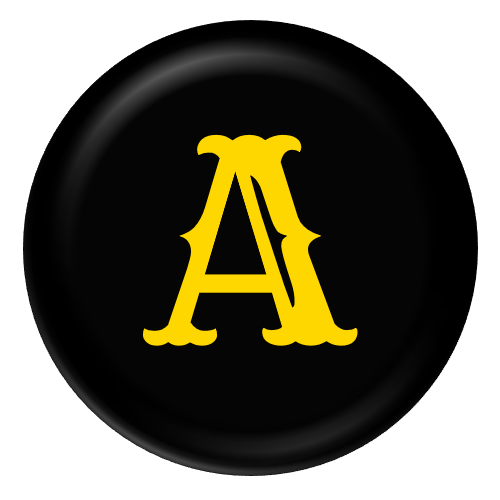
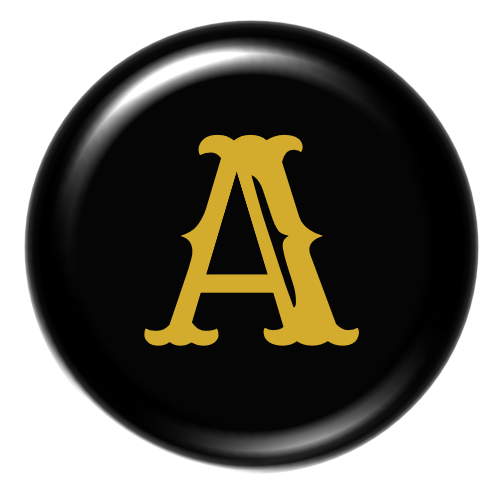
better buttons

diff --git a/js/game.js b/js/game.js
@@ -164,12 +164,12 @@ function stopGame() {
 }
 
 
-
+/* 
 function insertButtons() {
     let aPosition = document.getElementById('A-Button');
     let bPosition = document.getElementById('B-Button');
-    let aButton = generateButton('aButton', 250);
-    let bButton = generateButton('bButton', 250);
+    let aButton = generateButton('aButton', 90);
+    let bButton = generateButton('bButton', 90);
     aPosition.insertAdjacentHTML('afterbegin', aButton);
     bPosition.insertAdjacentHTML('afterbegin', bButton);
 }
@@ -179,15 +179,25 @@ function generateButton(id, sideLength) {
     let coord1 = sideLength /2;
     let coord2 = sideLength / 2.17;
     button = `
-           <img class="control-button" id="${id}" src='img/0.Own_Pictures/aButton.png' usemap='#a-button' height="${sideLength}px" width="${sideLength}px">
+           <img class="control-button" id="${id}" src='img/0.Own_Pictures/${id}.png' usemap='#a-button' height="${sideLength}px" width="${sideLength}px">
              <map name="a-button">
              <area target="" alt="" title="" href="" coords="${coord1},${coord1},${coord2}" shape="circle">
              </map> `;
     return button;
 }
 
-{/* <img src="Bild1.png" usemap="#image-map">
+{ <img src="Bild1.png" usemap="#image-map">
 
 <map name="image-map">
     <area target="_blank" alt="" title="" href="" coords="250,250,230" shape="circle">
-</map> */}
+</map> }
+
+
+function touchButton(buttonPress) {
+    document.getElementById(`${id}`).src = `img/0.Own_Pictures/${buttonPress}.png`;
+    switch (buttonPress) {
+        case 'A': keyboard.SPACE = true;
+            break;
+        case 'B': keyboard.THROW = true;
+            break;
+      }} */

diff --git a/style.css b/style.css
@@ -103,6 +103,7 @@ h1 {
 .responsive-control {
     display: flex;
     justify-content: space-between;
+    align-items: center;
 }
 
 .control-btn {
@@ -156,7 +157,7 @@ h1 {
     width: 100%;
     height: 100%;
     border-radius: 40px;
-    background: hsl(0deg 0% 0% / 0.25);
+    background: rgb(0, 0, 0);
     will-change: transform;
     transform: translateY(2px);
     transition:
@@ -169,26 +170,25 @@ h1 {
     top: 0;
     left: 0;
     width: 100%;
-    height: 100%;
+    height: 95%;
     border-radius:  40px;
-    background: radial-gradient(
-     
-      hsl(51deg 100% 16%) 0%,
-      hsl(51deg 100% 32%) 8%,
-      hsl(51deg 100% 32%) 92%,
-      hsl(100deg 100% 100%) 100%
-    );
+    background: 
+    linear-gradient(to right, black 58% , white 150%);
+    ;
   }
   .front {
     display: block;
     position: relative;
-    padding: 10px 20px;
+    padding-top: 10px ;
+    padding-left: 20px ;
+    padding-bottom: 10px ;
+    padding-right: 20px ;
     border-radius:  40px;
-    font-size: 2.25rem;
+    font-size: 2.5rem;
     -webkit-text-stroke: 1px black;
     font-family: 'Rye', cursive;
     color: rgb(211, 172, 45);
-    background: radial-gradient(circle at 41%, rgb(3, 3, 3), rgb(8, 8, 7) 50%, #EFE 80%, rgb(0, 0, 0) 81%);
+    background: radial-gradient(circle at 30%, rgb(0, 0, 0), rgb(0, 0, 0) 62%, #EFE 140%);
     will-change: transform;
     transform: translateY(-4px);
     transition:

diff --git a/index.html b/index.html
@@ -51,10 +51,6 @@
             <div class="start-btn" onclick="init()">Start </div>
             <div class="responsive-control" id="responsiveControll">
                 <div class="cross-container" id="crossPosition"></div>
-                <div id="A-Button"></div>
-                <div id="B-Button"></div>
-
-
                 <div class="control-btn-container">
                     <button class="pushable-btn mgn-r  mgn-t">
                         <span class="shadow-child"></span>
